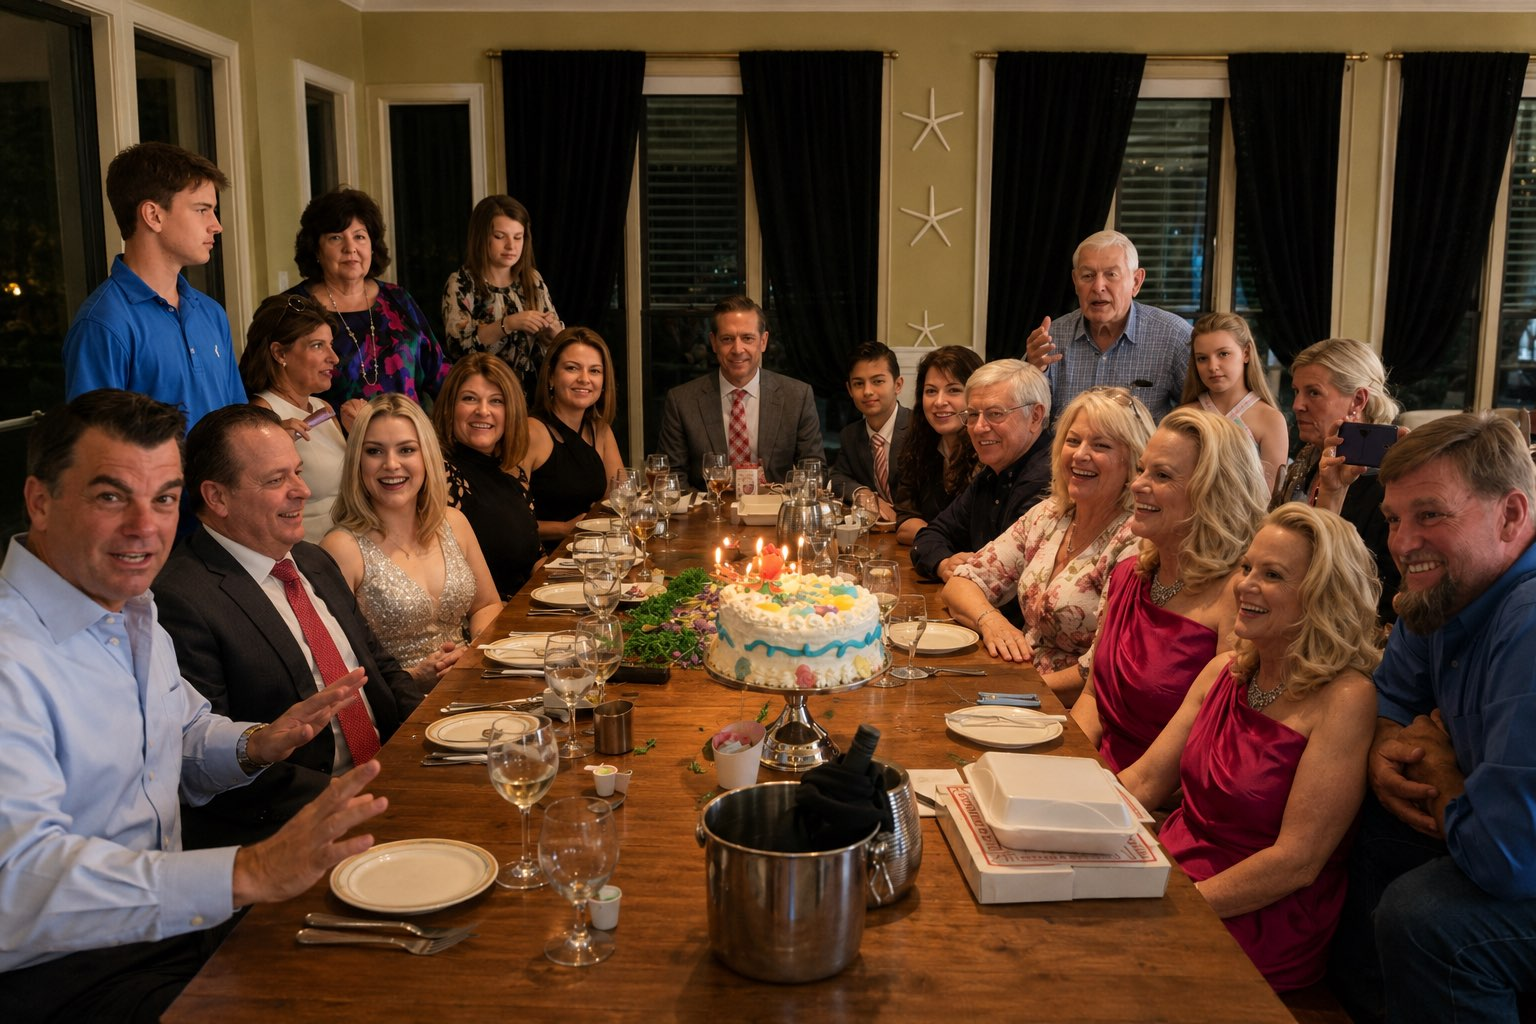
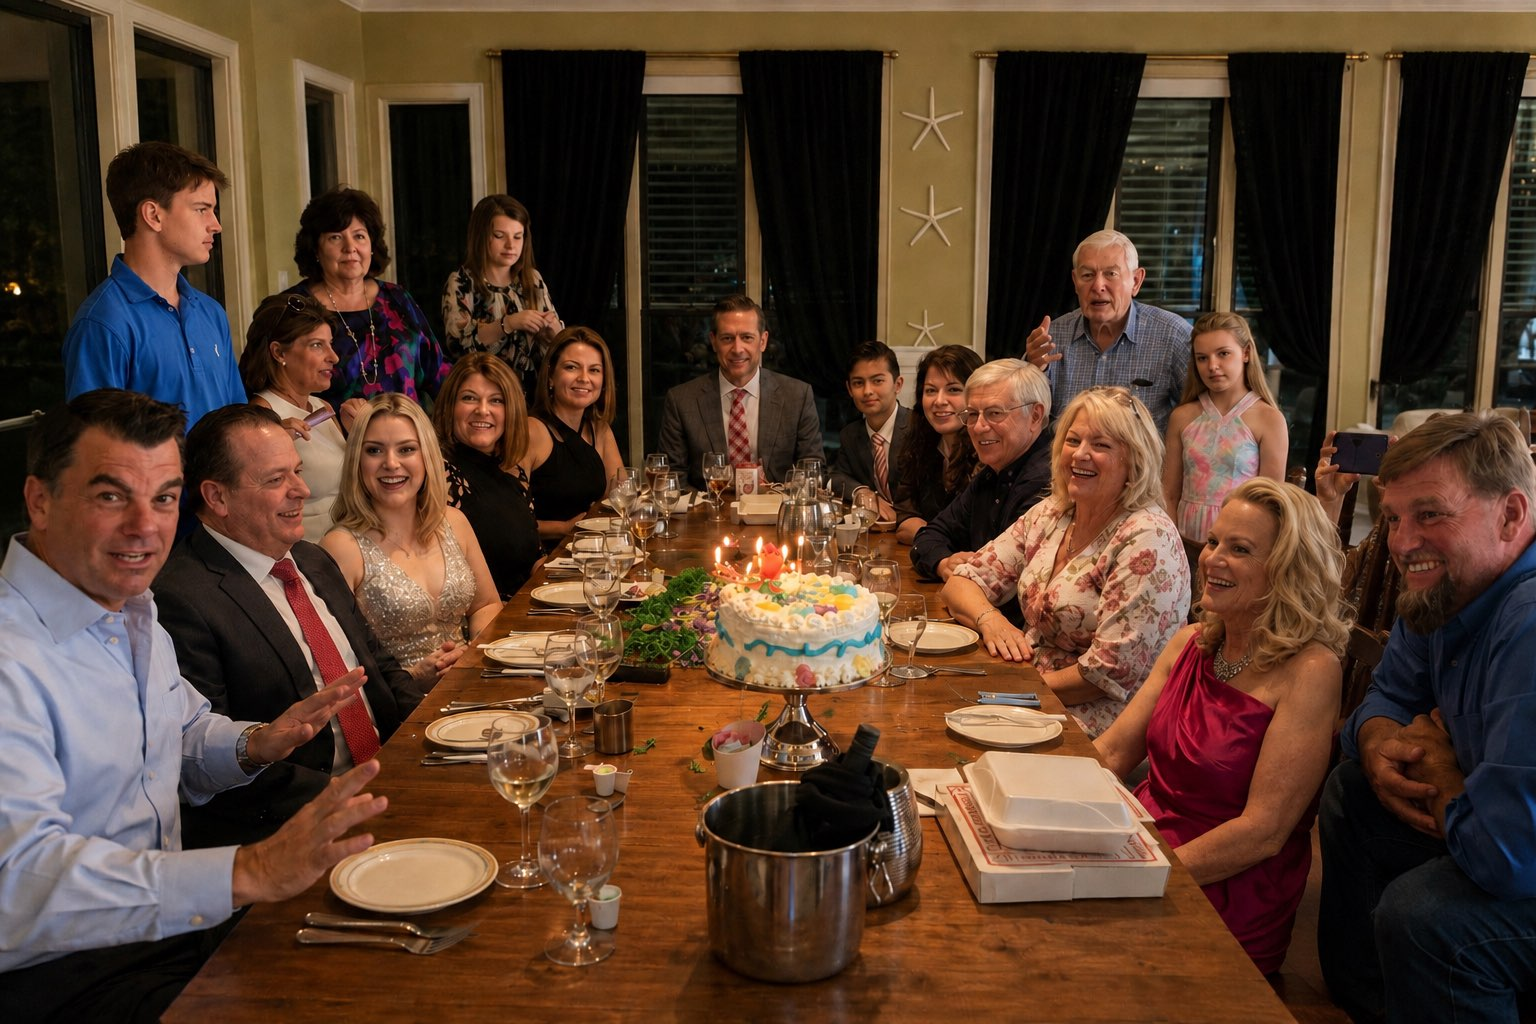
On /kim: swap in Kim's edited group dining photo (v2), cache-bust ref, per Kim

diff --git a/rebrand/kim/index.html b/rebrand/kim/index.html
@@ -353,7 +353,7 @@ src="https://www.facebook.com/tr?id=1988533432098166&ev=PageView&noscript=1"
     <p class="body" style="color: #3D4D58; margin-bottom: 36px;">Tell us the occasion. We&rsquo;ll take care of the rest.</p>
     <a href="tel:7275961515" class="btn-gold" style="font-size: 13px; padding: 16px 36px;">TELL US THE OCCASION &middot; (727)&nbsp;596&#8209;1515</a>
   </div>
-  <div class="img-fill events-photo" style="background-image: url('../assets/events-group.jpg');"></div>
+  <div class="img-fill events-photo" style="background-image: url('../assets/events-group.jpg?v=2');"></div>
 </div>
 
 <!-- ============ FOOTER / VISIT ============ -->
